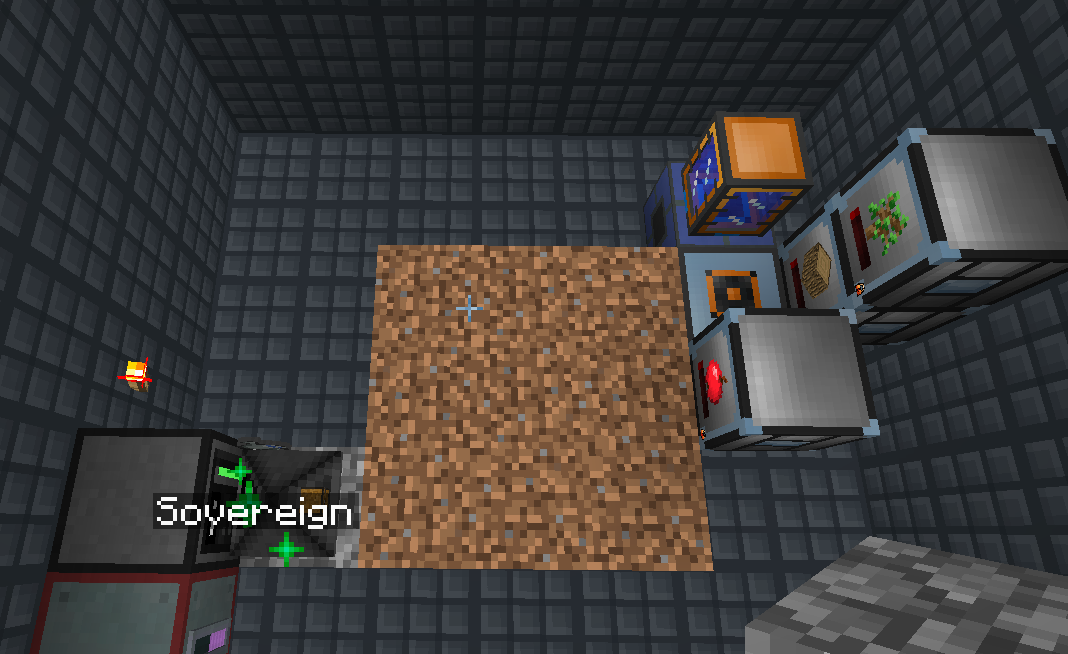
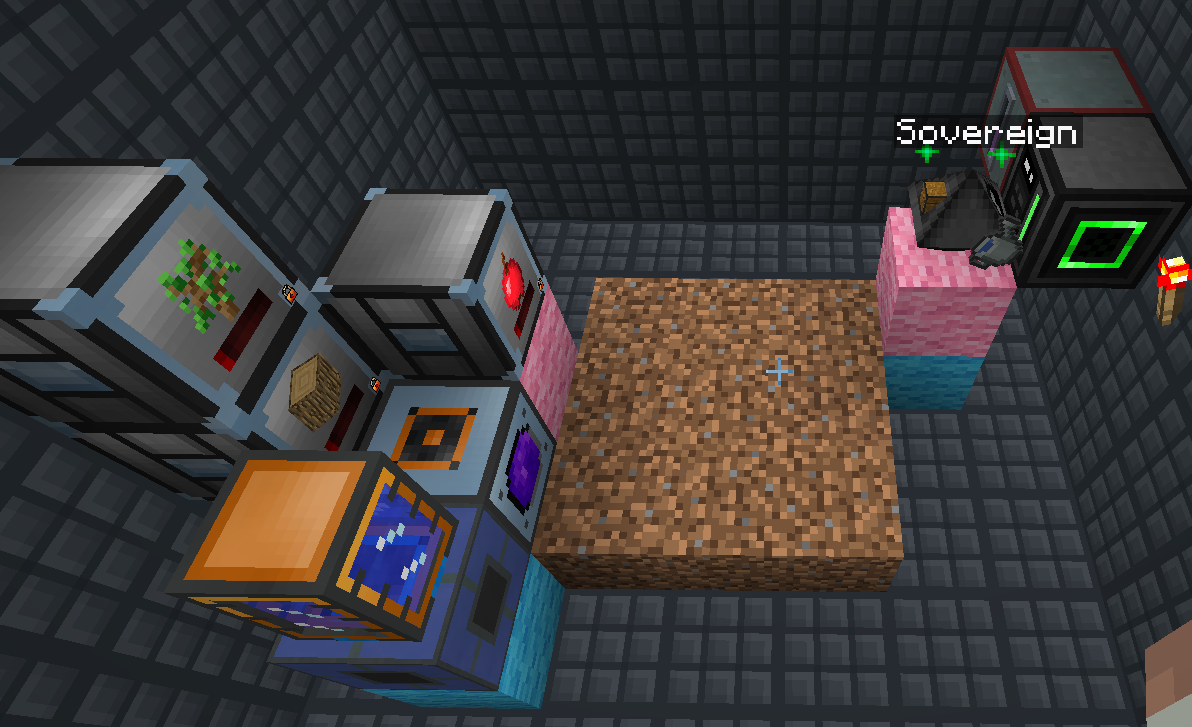
Load safe tree farm

diff --git a/README.md b/README.md
@@ -60,11 +60,12 @@ cat > my_script.lua
 Установите блоки согласно схеме:
 
 1. Поле земли 3х3 в центре комнаты.
-2. В левом нижнем углу Charger и робот (смотрит на Charger).
+2. В правом верхнем углу на высоте двух блоков от пола Charger и робот (смотрит на Charger).
 3. В противоположном углу:
-   * Три вместительных хранилища: для дерева, ростков и яблок (используются Cache)
-   * Vacuumulator с выдачей ресурсов вверх (для сбора выпадающих ростков и яблок).
-   * Portable Tank, который стоит на Compact Infinite Water Source.
+   * На высоте одного блока от пола Vacuumulator с выдачей ресурсов вверх (для сбора выпадающих ростков и яблок).
+   * Уровнем выше: слева Portable Tank (который стоит на Compact Infinite Water Source), по центру хранилище для дерева, 
+     справа хранилище для яблок.
+   * Над хранилищем дерева находится хранилище ростов.
 
 ![Tree farm](tree-farm/tree_farm_scheme.png)
 
@@ -87,3 +88,6 @@ cat > tree_farm.lua
 * Если дерево будет забираться из хранилища, то нужно заблокировать тип хранимого материала (поставить 
   замок `Shift + Right click` свободной рукой по кэшу).
 * Если источник воды не будет успевать наполнять Tank, то производительность фермы сильно упадёт.
+* Робот не использует топоры для рубки дерева (производительности и так хватает, плюс не требуется обслуживание).
+
+![Tree farm](tree-farm/tree_farm_scheme_2.png)
